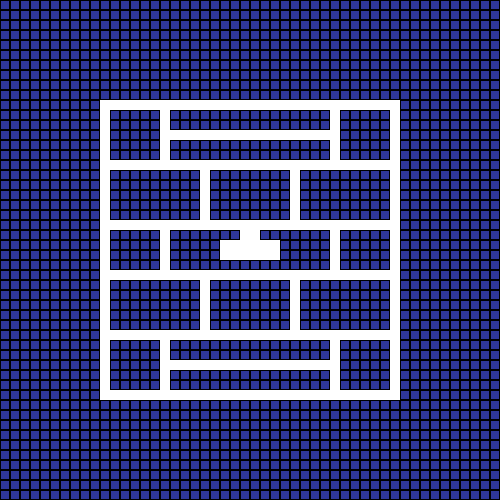
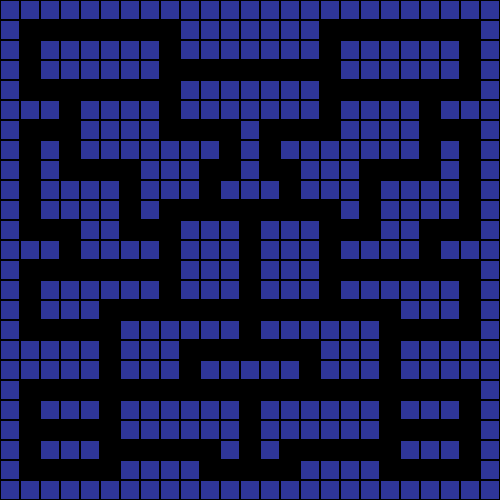
Updated the map layout and map picture to proper block and grid size.  Need Lisa to update Drawer before anything works

diff --git a/pacman-seng403/Map.cs b/pacman-seng403/Map.cs
@@ -1,54 +1,111 @@
 using System;
 
-namespace pacman
-{
 
-    public class Map
+    class Map
     {
-        public static readonly int BLOCKSIZE = 10;
 
         static private Directions[,] MapArray;
         static private int rows = 0;
         static private int columns = 0;
 
         // Returns the value at a certain coordinate in MapArray
-        static public Directions getMapEntry(int y, int x) {
-            return MapArray[x, y];
+        static public Directions getMapEntry(int x, int y)
+        {
+            return MapArray[y, x];
         }
 
         // Generates a map based on a preset layout for the specified level
-        static public void GenerateMap(int level) {
-            switch (level) {
+        static public void GenerateMap(int level)
+        {
+            switch (level)
+            {
                 case 1:
-                    rows = 50;
-                    columns = 50;
+                    rows = 25;
+                    columns = 25;
                     MapArray = new Directions[rows, columns];
                     blankMap();
-                    horCarve(10, 10, 39);
-                    verCarve(10, 10, 39);
-                    horCarve(39, 10, 39);
-                    verCarve(39, 10, 39);
-                    horCarve(16, 10, 39);
-                    horCarve(22, 10, 39);
-                    horCarve(27, 10, 39);
-                    horCarve(33, 10, 39);
-                    verCarve(16, 10, 16);
-                    verCarve(33, 10, 16);
-                    verCarve(20, 16, 21);
-                    verCarve(29, 16, 21);
-                    verCarve(20, 28, 33);
-                    verCarve(29, 28, 33);
-                    verCarve(16, 34, 39);
-                    verCarve(33, 34, 39);
-                    horCarve(13, 17, 33);
-                    horCarve(36, 17, 33);
-                    verCarve(16, 22, 26);
-                    verCarve(33, 22, 26);
 
-                    verCarve(24, 22, 24);
-                    verCarve(25, 22, 24);
-                    horCarve(24, 22, 27);
-                    horCarve(25, 22, 27);
+                    // Ghost Box
+                    // verCarve(12, 11, 13);
+                    // horCarve(12, 10, 14);
+                    // horCarve(13, 10, 14);
+                    verCarve(12, 10, 15);
+
+
+                    // Mid Segment
+                    horCarve(10, 8, 16);
+                    verCarve(8, 10, 15);
+                    verCarve(16, 10, 15);
+                    horCarve(15, 8, 16);
+
+
+                    // Top Segment
+                    horCarve(1, 1, 8);
+                    horCarve(1, 16, 23);
+                    verCarve(1, 1, 4);
+                    verCarve(8, 1, 6);
+                    verCarve(16, 1, 6);
+                    verCarve(23, 1, 4);
+                    horCarve(3, 8, 16);
+                    horCarve(4, 1, 8);
+                    horCarve(4, 16, 23);
+                    horCarve(6, 8, 11);
+                    horCarve(6, 13, 16);
+                    verCarve(11, 6, 8);
+                    verCarve(13, 6, 8);
+                    verCarve(10, 8, 10);
+                    verCarve(14, 8, 10);
+                    verCarve(3, 4, 8);
+                    horCarve(8, 4, 6);
+                    verCarve(6, 8, 11);
+                    horCarve(11, 6, 8);
+                    verCarve(21, 4, 8);
+                    horCarve(8, 18, 21);
+                    verCarve(18, 8, 11);
+                    horCarve(11, 16, 18);
+
+
+                    // Bottom Segment
+                    horCarve(23, 1, 5);
+                    horCarve(23, 10, 14);
+                    horCarve(23, 19, 23);
+                    horCarve(22, 5, 10);
+                    horCarve(22, 14, 19);
+                    horCarve(21, 1, 5);
+                    horCarve(21, 19, 23);
+                    horCarve(19, 1, 23);
+                    verCarve(1, 19, 23);
+                    verCarve(5, 15, 23);
+                    verCarve(12, 19, 23);
+                    verCarve(19, 15, 23);
+                    verCarve(23, 19, 23);
+                    horCarve(15, 5, 19);
+                    verCarve(9, 17, 19);
+                    verCarve(15, 17, 19);
+                    horCarve(17, 9, 15);
+                    verCarve(12, 16, 16);
+
+
+                    // Left Segment
+                    horCarve(11, 1, 3);
+                    horCarve(13, 1, 8);
+                    verCarve(3, 11, 13);
+                    verCarve(1, 6, 11);
+                    horCarve(6, 1, 3);
+                    verCarve(1, 13, 16);
+                    horCarve(16, 1, 4);
+
+
+                    // Right Segment
+                    horCarve(11, 21, 23);
+                    horCarve(13, 16, 23);
+                    verCarve(21, 11, 13);
+                    verCarve(23, 6, 11);
+                    horCarve(6, 21, 23);
+                    verCarve(23, 13, 16);
+                    horCarve(16, 20, 23);
+
+
                     break;
                 case 2:
                     rows = 10;
@@ -73,17 +130,23 @@ namespace pacman
 
         // Prints the "walls" of the map to console
         // Useful to see hallway stucture
-        static public void printBoundaries() {
+        static public void printBoundaries()
+        {
             int i;
             int j;
-            for (i = 0; i < rows; i++) {
-                for (j = 0; j < columns; j++) {
-                    if (MapArray[i, j] == Directions.NONE) {
-                        Console.Write("#");
-                    }
-                    else {
-                        Console.Write(" ");
-                    }
+            for (i = 0; i < rows; i++)
+            {
+                for (j = 0; j < columns; j++)
+                {
+                if (MapArray[i, j] == Directions.NONE)
+                {
+                    Console.Write("#");
+                }
+                else
+                {
+                    Console.Write(" ");
+                }
+              
                 }
 
                 Console.Write("\n");
@@ -92,15 +155,20 @@ namespace pacman
 
         // Prints the MapArray entry of open spaces (as in, not walls)
         // Useful to see if spaces connect properly
-        static public void printPathLogic() {
+        static public void printPathLogic()
+        {
             int i;
             int j;
-            for (i = 0; i < rows; i++) {
-                for (j = 0; j < columns; j++) {
-                    if (MapArray[i, j] != Directions.NONE) {
+            for (i = 0; i < rows; i++)
+            {
+                for (j = 0; j < columns; j++)
+                {
+                    if (MapArray[i, j] != Directions.NONE)
+                    {
                         Console.Write(String.Format("{0:x}", (int)MapArray[i, j]));
                     }
-                    else {
+                    else
+                    {
                         Console.Write(" ");
                     }
                 }
@@ -110,15 +178,20 @@ namespace pacman
         }
 
         // printBoundaries() and printPathLogic() together
-        static public void printAll() {
+        static public void printAll()
+        {
             int i;
             int j;
-            for (i = 0; i < rows; i++) {
-                for (j = 0; j < columns; j++) {
-                    if (MapArray[i, j] != Directions.NONE) {
+            for (i = 0; i < rows; i++)
+            {
+                for (j = 0; j < columns; j++)
+                {
+                    if (MapArray[i, j] != Directions.NONE)
+                    {
                         Console.Write(String.Format("{0:x}", (int)MapArray[i, j]));
                     }
-                    else {
+                    else
+                    {
                         Console.Write("#");
                     }
                 }
@@ -129,104 +202,123 @@ namespace pacman
         }
 
         // Converts map into entirely walls / impassable spaces
-        static private void blankMap() {
+        static private void blankMap()
+        {
             int i;
             int j;
-            for (i = 0; i < rows; i++) {
-                for (j = 0; j < columns; j++) {
+            for (i = 0; i < rows; i++)
+            {
+                for (j = 0; j < columns; j++)
+                {
                     MapArray[i, j] = Directions.NONE;
                 }
             }
         }
 
         // Carves a horizontal hallway into map
-        static private void horCarve(int row, int y1, int y2) {
-            if (y1 > y2) {
+        static private void horCarve(int row, int y1, int y2)
+        {
+            if (y1 > y2)
+            {
                 int temp = y1;
                 y1 = y2;
                 y2 = temp;
             }
 
             int i = y1;
-            if (y1 != y2) {
+            if (y1 != y2)
+            {
                 MapArray[row, i] = MapArray[row, i] | Directions.RIGHT;
             }
 
-            for (i = y1; i <= y2; i++) {
+            for (i = y1; i <= y2; i++)
+            {
                 // Check up
-                if (MapArray[row - 1, i] != Directions.NONE) {
+                if (MapArray[row - 1, i] != Directions.NONE)
+                {
                     MapArray[row - 1, i] = MapArray[row - 1, i] | Directions.DOWN;
                     MapArray[row, i] = MapArray[row, i] | Directions.UP;
                 }
 
                 // Check down
-                if (MapArray[row + 1, i] != Directions.NONE) {
+                if (MapArray[row + 1, i] != Directions.NONE)
+                {
                     MapArray[row + 1, i] = MapArray[row + 1, i] | Directions.UP;
                     MapArray[row, i] = MapArray[row, i] | Directions.DOWN;
                 }
 
                 // Check left
-                if (MapArray[row, i - 1] != Directions.NONE) {
+                if (MapArray[row, i - 1] != Directions.NONE)
+                {
                     MapArray[row, i - 1] = MapArray[row, i - 1] | Directions.RIGHT;
                     MapArray[row, i] = MapArray[row, i] | Directions.LEFT;
                 }
 
                 // Check right
-                if (MapArray[row, i + 1] != Directions.NONE) {
+                if (MapArray[row, i + 1] != Directions.NONE)
+                {
                     MapArray[row, i + 1] = MapArray[row, i + 1] | Directions.LEFT;
                     MapArray[row, i] = MapArray[row, i] | Directions.RIGHT;
                 }
             }
 
-            if (y1 != y2) {
+            if (y1 != y2)
+            {
                 MapArray[row, i - 1] = MapArray[row, i - 1] | Directions.LEFT;
             }
         }
 
         // Carves a vertical hallway into map
-        static private void verCarve(int column, int x1, int x2) {
-            if (x1 > x2) {
+        static private void verCarve(int column, int x1, int x2)
+        {
+            if (x1 > x2)
+            {
                 int temp = x1;
                 x1 = x2;
                 x2 = temp;
             }
 
             int i = x1;
-            if (x1 != x2) {
+            if (x1 != x2)
+            {
                 MapArray[i, column] = MapArray[i, column] | Directions.DOWN;
             }
 
-            for (i = x1; i <= x2; i++) {
+            for (i = x1; i <= x2; i++)
+            {
                 // Check up
-                if (MapArray[i - 1, column] != Directions.NONE) {
+                if (MapArray[i - 1, column] != Directions.NONE)
+                {
                     MapArray[i - 1, column] = MapArray[i - 1, column] | Directions.DOWN;
                     MapArray[i, column] = MapArray[i, column] | Directions.UP;
                 }
 
                 // Check down
-                if (MapArray[i + 1, column] != Directions.NONE) {
+                if (MapArray[i + 1, column] != Directions.NONE)
+                {
                     MapArray[i + 1, column] = MapArray[i + 1, column] | Directions.UP;
                     MapArray[i, column] = MapArray[i, column] | Directions.DOWN;
                 }
 
                 // Check left
-                if (MapArray[i, column - 1] != Directions.NONE) {
+                if (MapArray[i, column - 1] != Directions.NONE)
+                {
                     MapArray[i, column - 1] = MapArray[i, column - 1] | Directions.RIGHT;
                     MapArray[i, column] = MapArray[i, column] | Directions.LEFT;
                 }
 
                 // Check right
-                if (MapArray[i, column + 1] != Directions.NONE) {
+                if (MapArray[i, column + 1] != Directions.NONE)
+                {
                     MapArray[i, column + 1] = MapArray[i, column + 1] | Directions.LEFT;
                     MapArray[i, column] = MapArray[i, column] | Directions.RIGHT;
                 }
 
             }
 
-            if (x1 != x2) {
+            if (x1 != x2)
+            {
                 MapArray[i - 1, column] = MapArray[i - 1, column] | Directions.UP;
             }
         }
     }
-
-}
